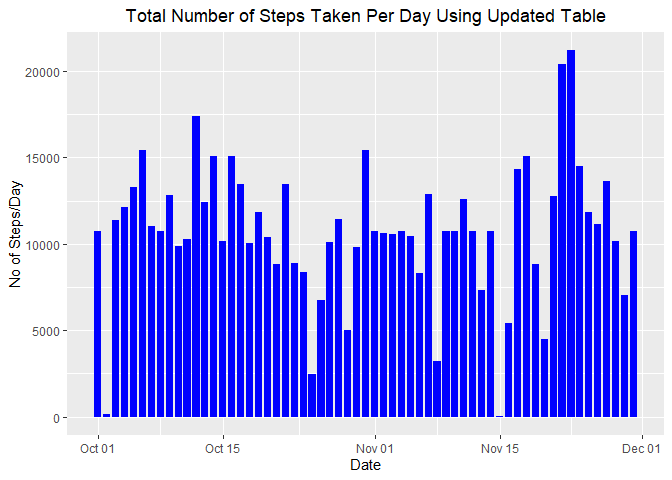
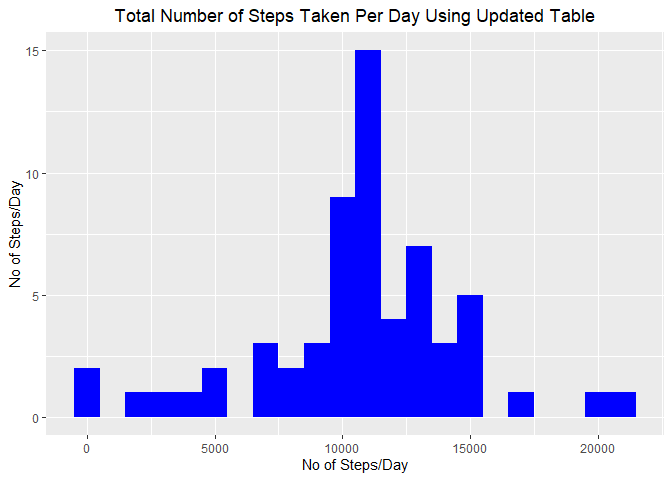
changed bar plot to histogram

diff --git a/PA1_template.html b/PA1_template.html
@@ -382,9 +382,9 @@ activity &lt;- read_csv(&quot;activity.csv&quot;, col_types = cols(date = col_da
 activity.perDaySteps &lt;- activity %&gt;% group_by(date) %&gt;% summarize(perDaySteps = sum(steps, na.rm = TRUE))</code></pre>
 <p>Make a histogram of the total number of steps taken each day using “ggplot2”</p>
 <pre class="r"><code>suppressWarnings(library(ggplot2))
-g &lt;- ggplot(activity.perDaySteps, aes(x = date, y = perDaySteps))
-g + geom_bar(stat = &quot;identity&quot;, fill = &quot;blue&quot;, width = 0.8) + theme(plot.title = element_text(hjust = 0.5)) + labs(x = &quot;Date&quot;, y = &quot;No of Steps/Day&quot;, title = &quot;Total Number of Steps Taken Per Day&quot;)</code></pre>
[1 lines of base64/hex data omitted]
+g &lt;- ggplot(activity.perDaySteps, aes(x = perDaySteps))
+g + geom_histogram(binwidth = 1000, fill = &quot;blue&quot;) + theme(plot.title = element_text(hjust = 0.5)) + labs(x = &quot;No of Steps/Day&quot;, y = &quot;Count&quot;, title = &quot;Total Number of Steps Taken Per Day&quot;)</code></pre>
[1 lines of base64/hex data omitted]
 <p>Mean total number of steps taken per day:</p>
 <pre class="r"><code>mean(activity.perDaySteps$perDaySteps, na.rm = TRUE)</code></pre>
 <pre><code>## [1] 9354.23</code></pre>
@@ -427,9 +427,9 @@ head(activity.updated)</code></pre>
 ## 6 2.09   2012-10-01       25</code></pre>
 <p>We need to create a histogram with steps taken each day so we will create a new table using ‘activity.updated’ and create a histogram using that table.</p>
 <pre class="r"><code>activity.updated.perDaySteps &lt;- activity.updated %&gt;% group_by(date) %&gt;% summarize(perDaySteps = sum(steps, na.rm = TRUE))
-g &lt;- ggplot(activity.updated.perDaySteps, aes(x = date, y = perDaySteps))
-g + geom_bar(stat = &quot;identity&quot;, fill = &quot;blue&quot;, width = 0.8) + theme(plot.title = element_text(hjust = 0.5)) + labs(x = &quot;Date&quot;, y = &quot;No of Steps/Day&quot;, title = &quot;Total Number of Steps Taken Per Day Using Updated Table&quot;)</code></pre>
[1 lines of base64/hex data omitted]
+g &lt;- ggplot(activity.updated.perDaySteps, aes(x = perDaySteps))
+g + geom_histogram(binwidth = 1000, fill = &quot;blue&quot;) + theme(plot.title = element_text(hjust = 0.5)) + labs(x = &quot;No of Steps/Day&quot;, y = &quot;No of Steps/Day&quot;, title = &quot;Total Number of Steps Taken Per Day Using Updated Table&quot;)</code></pre>
[1 lines of base64/hex data omitted]
 <p>Mean total number of steps taken per day according to updated table:</p>
 <pre class="r"><code>mean(activity.updated.perDaySteps$perDaySteps, na.rm = TRUE)</code></pre>
 <pre><code>## [1] 10766.19</code></pre>

diff --git a/PA1_template.md b/PA1_template.md
@@ -31,8 +31,8 @@ Make a histogram of the total number of steps taken each day using "ggplot2"
 
 ```r
 suppressWarnings(library(ggplot2))
-g <- ggplot(activity.perDaySteps, aes(x = date, y = perDaySteps))
-g + geom_bar(stat = "identity", fill = "blue", width = 0.8) + theme(plot.title = element_text(hjust = 0.5)) + labs(x = "Date", y = "No of Steps/Day", title = "Total Number of Steps Taken Per Day")
+g <- ggplot(activity.perDaySteps, aes(x = perDaySteps))
+g + geom_histogram(binwidth = 1000, fill = "blue") + theme(plot.title = element_text(hjust = 0.5)) + labs(x = "No of Steps/Day", y = "Count", title = "Total Number of Steps Taken Per Day")
 ```
 
 ![](PA1_template_files/figure-html/unnamed-chunk-3-1.png)<!-- -->
@@ -125,8 +125,8 @@ We need to create a histogram with steps taken each day so we will create a new 
 
 ```r
 activity.updated.perDaySteps <- activity.updated %>% group_by(date) %>% summarize(perDaySteps = sum(steps, na.rm = TRUE))
-g <- ggplot(activity.updated.perDaySteps, aes(x = date, y = perDaySteps))
-g + geom_bar(stat = "identity", fill = "blue", width = 0.8) + theme(plot.title = element_text(hjust = 0.5)) + labs(x = "Date", y = "No of Steps/Day", title = "Total Number of Steps Taken Per Day Using Updated Table")
+g <- ggplot(activity.updated.perDaySteps, aes(x = perDaySteps))
+g + geom_histogram(binwidth = 1000, fill = "blue") + theme(plot.title = element_text(hjust = 0.5)) + labs(x = "No of Steps/Day", y = "No of Steps/Day", title = "Total Number of Steps Taken Per Day Using Updated Table")
 ```
 
 ![](PA1_template_files/figure-html/unnamed-chunk-11-1.png)<!-- -->
